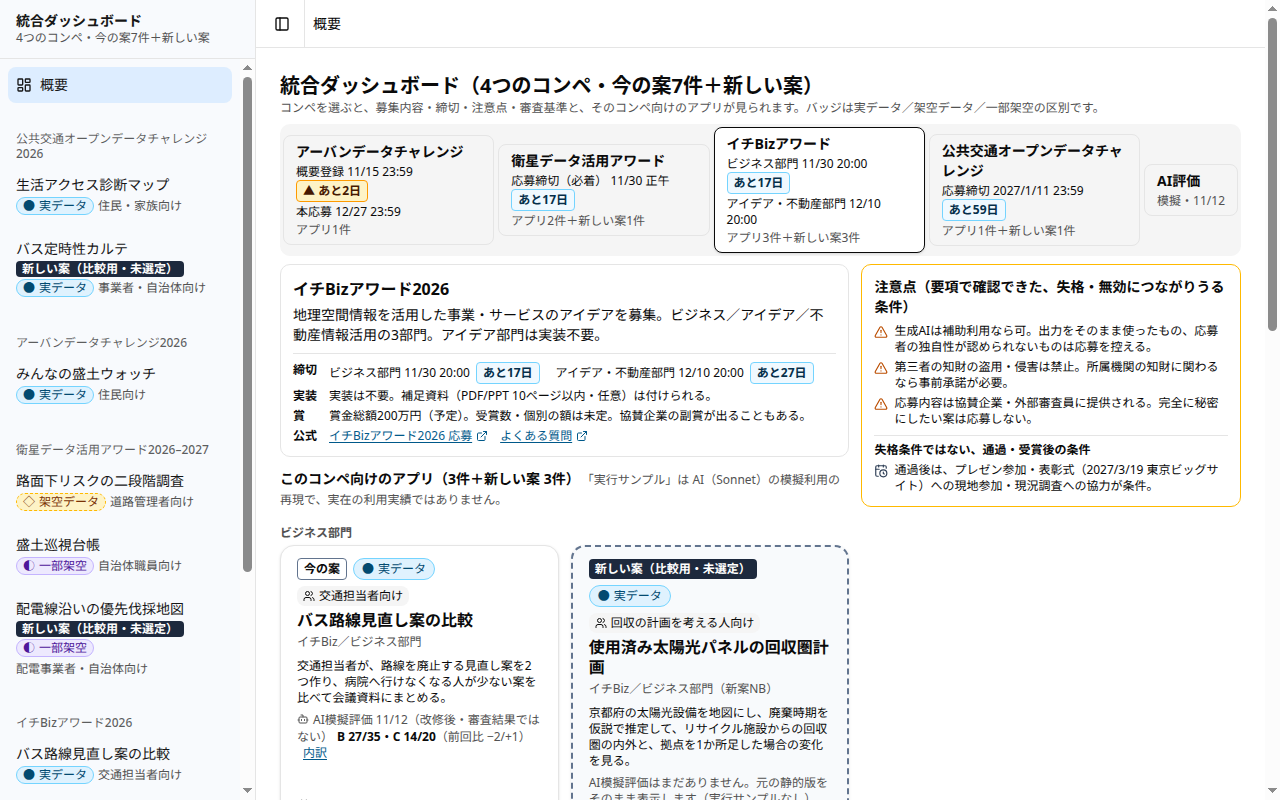
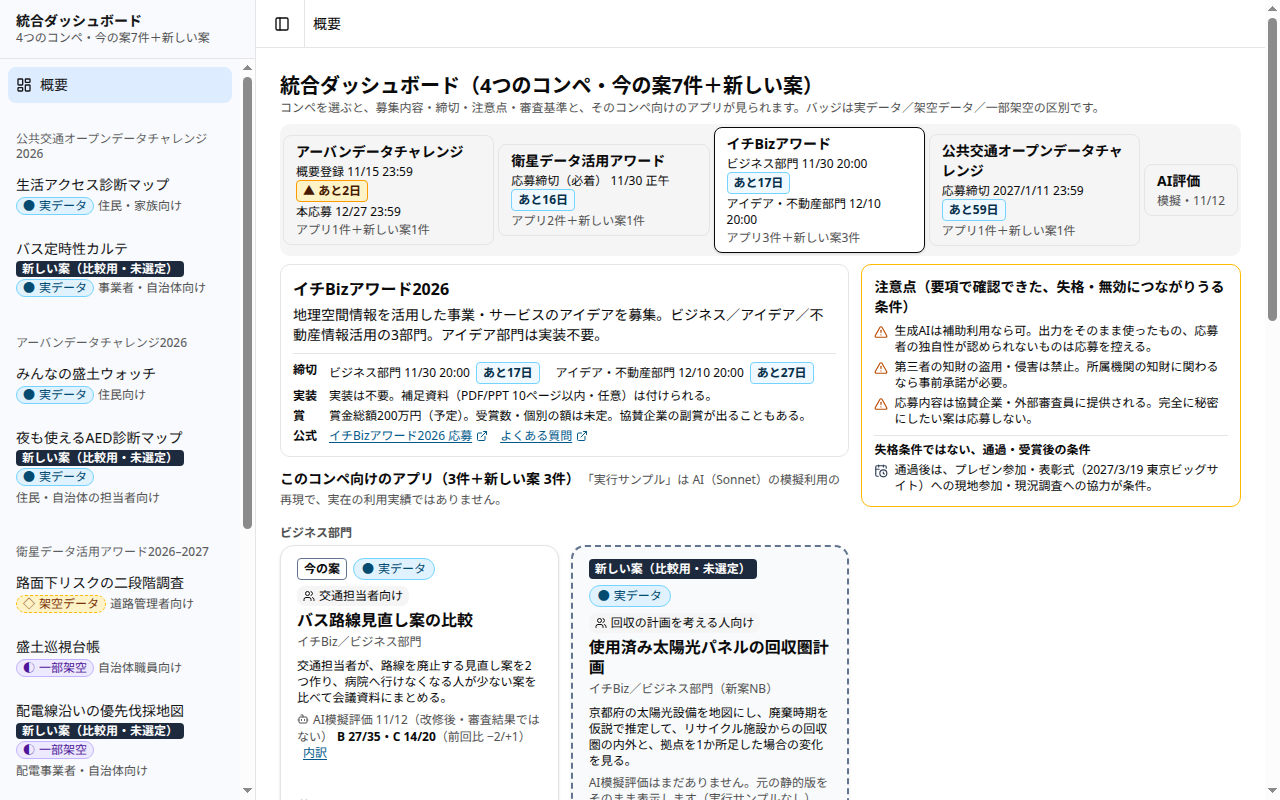
工兵: 統合ダッシュボードにUDC新案AED（udc-aed）を盛土ウォッチの隣に追加、IN1カードからデモを開けるように（IN1の数字を11台・2か所に）

diff --git a/contests/dashboard/src/apps/registry.ts b/contests/dashboard/src/apps/registry.ts
@@ -51,6 +51,8 @@ export interface CardOnly {
   pairWith: string
   /** カードの本文（何の案か・何がまだ無いか） */
   note: string
+  /** デモを開けるアプリの id（あれば「デモを開く」を出す） */
+  demoAppId?: string
   /** 提出文を読むリンク（サイトルートからの相対パス。copy-data が submission/ の md を .txt にして置く） */
   docs: { label: string; path: string }[]
 }
@@ -217,6 +219,23 @@ export const APPS: AppMeta[] = [
     originalPath: 'contests/ichibiz-2026/app/realestate-rn1/',
   },
   {
+    id: 'udc-aed',
+    plan: 'new',
+    pairWith: 'udc-moritsuchi',
+    embed: 'udc-aed',
+    audience: '住民・自治体の担当者向け',
+    name: '夜も使えるAED診断マップ',
+    contest: 'udc-2026',
+    division: '新案A',
+    deadline: '2026/12/27 23:59（概要登録は 11/15 23:59）',
+    deadlineAt: '2026-12-27T23:59:00+09:00',
+    purpose:
+      '自治体が公開したAEDの利用可能な曜日・時間から、選んだ曜日と時刻に徒歩圏で使えるAEDがない地区を地図で見て、24時間使えるAEDを1台置いた場合の変化を試算する。',
+    dataKind: 'real',
+    dataNote: '町田市・福岡市・井原市・倉敷市が公開したAED設置のオープンデータと、国勢調査の地域メッシュ人口。時間表記を読めないAEDは「不明」として数える',
+    originalPath: 'contests/udc-2026/app/aed-night/',
+  },
+  {
     id: 'odpt-teiji',
     plan: 'new',
     pairWith: 'odpt',
@@ -244,7 +263,8 @@ export const CARDS_ONLY: CardOnly[] = [
     contest: 'ichibiz-2026',
     division: 'アイデア部門（新案IN1）',
     pairWith: 'biz-idea',
-    note: 'AEDの地図は公開されていても、点は「いつ使えるか」を示さない。町田市の公開データでは、位置と利用時間が記入された288台のうち、平日午前3時に使えるのは14台（本案の簡易判定）。提出文のみで、デモは UDC の「夜間・休日に使えるAED地図」を使う予定（準備中）。',
+    note: 'AEDの地図は公開されていても、点は「いつ使えるか」を示さない。町田市の公開データでは、位置と利用時間が記入された288台のうち、平日午前3時に使えるのは11台（2か所。救急車内等4台を除く本案の判定）。提出文のみ。デモは UDC の「夜も使えるAED診断マップ」を使う予定で、下のリンクから開けます。',
+    demoAppId: 'udc-aed',
     docs: [
       { label: '課題の文を読む', path: 'submission/idea-in1/problem.txt' },
       { label: 'サービス内容の文を読む', path: 'submission/idea-in1/service.txt' },

diff --git a/contests/dashboard/src/pages/Overview.tsx b/contests/dashboard/src/pages/Overview.tsx
@@ -7,7 +7,7 @@ import { Card, CardContent, CardDescription, CardFooter, CardHeader, CardTitle }
 import { Tabs, TabsContent, TabsList, TabsTrigger } from '@/components/ui/tabs'
 import { DataBadge } from '@/components/shared/DataBadge'
 import { APPS, CARDS_ONLY, CONTESTS, NEW_PLAN_LABEL, appsByContest, getApp, isNewPlan, type AppMeta, type CardOnly, type ContestId } from '@/apps/registry'
-import { siteRoot } from '@/lib/data'
+import { appUrl, siteRoot } from '@/lib/data'
 import { CONTEST_INFO, remainingText, type ContestInfo } from '@/apps/contests-info'
 import { AppScoreLine, EvalSummary, MOCK_NOTICE, ROUND_NOTICE } from '@/pages/EvalPanels'
 import { LATEST } from '@/apps/eval-results'
@@ -51,7 +51,7 @@ function CardOnlyCard({ c }: { c: CardOnly }) {
       <CardHeader className="gap-1 px-4">
         <div className="flex flex-wrap items-center gap-1.5">
           <NewPlanTag />
-          <span className="rounded border border-slate-500 px-1.5 py-0.5 text-xs font-bold">デモなし</span>
+          <span className="rounded border border-slate-500 px-1.5 py-0.5 text-xs font-bold">{c.demoAppId ? '提出文のみ' : 'デモなし'}</span>
         </div>
         <CardTitle className="text-base leading-tight" data-testid={`card-only-title-${c.id}`}>{c.name}</CardTitle>
         <CardDescription className="text-xs">
@@ -62,6 +62,16 @@ function CardOnlyCard({ c }: { c: CardOnly }) {
         <p data-testid={`card-only-note-${c.id}`}>{c.note}</p>
       </CardContent>
       <CardFooter className="flex-wrap gap-x-4 gap-y-1 px-4 text-xs">
+        {c.demoAppId && (
+          <a
+            href={appUrl(c.demoAppId)}
+            className="inline-flex items-center gap-1 font-bold text-primary underline underline-offset-2"
+            data-testid={`card-only-demo-${c.id}`}
+          >
+            デモを開く（UDC「{getApp(c.demoAppId)?.name}」）
+            <ArrowRight className="size-3" aria-hidden />
+          </a>
+        )}
         {c.docs.map((d) => (
           <a
             key={d.path}

diff --git a/contests/dashboard/src/test/shared.test.ts b/contests/dashboard/src/test/shared.test.ts
@@ -56,9 +56,9 @@ describe('mapStyle / registry', () => {
     }
     expect(GSI_BASEMAPS.photo.url).toContain('seamlessphoto')
   })
-  it('今の案7件と新しい案4件が登録され id が一意', () => {
+  it('今の案7件と新しい案5件が登録され id が一意', () => {
     expect(CURRENT_APPS).toHaveLength(7)
-    expect(APPS.filter(isNewPlan)).toHaveLength(4)
+    expect(APPS.filter(isNewPlan)).toHaveLength(5)
     expect(new Set(APPS.map((a) => a.id)).size).toBe(APPS.length)
     expect(getApp('sat-a')?.dataKind).toBe('fictional')
     expect(appsByContest('ichibiz-2026').filter((a) => !isNewPlan(a))).toHaveLength(3)
@@ -79,6 +79,7 @@ describe('mapStyle / registry', () => {
   it('今の案から新しい案を引ける（見比べるリンク用）。ODPT 定時性カルテの状態の文に数値を書かない', () => {
     expect(newPlansOf('sat-b').map((a) => a.id)).toEqual(['sat-alpha'])
     expect(newPlansOf('sat-a')).toEqual([])
+    expect(newPlansOf('udc-moritsuchi').map((a) => a.id)).toEqual(['udc-aed'])
     expect(getApp('odpt-teiji')?.stateNote).toMatch(/まだ遅れの集計はありません/)
     expect(getApp('odpt-teiji')?.stateNote).not.toMatch(/\d+\s*(便|件|%|％)/)
   })

diff --git a/contests/dashboard/apps/udc-aed/index.html b/contests/dashboard/apps/udc-aed/index.html
@@ -1,0 +1,13 @@
+<!doctype html>
+<html lang="ja">
+  <head>
+    <meta charset="UTF-8" />
+    <meta name="viewport" content="width=device-width, initial-scale=1.0" />
+    <link rel="icon" href="data:," />
+    <title>夜も使えるAED診断マップ（新しい案・比較用）｜統合ダッシュボード</title>
+  </head>
+  <body>
+    <div id="root" data-app="udc-aed" data-root="../../"></div>
+    <script type="module" src="/src/standalone/udc-aed.tsx"></script>
+  </body>
+</html>

diff --git a/contests/dashboard/vite.config.ts b/contests/dashboard/vite.config.ts
@@ -6,7 +6,7 @@ import { defineConfig } from 'vitest/config'
 const APP_IDS = [
   'odpt', 'udc-moritsuchi', 'sat-a', 'sat-b', 'biz-business', 'biz-idea', 'biz-realestate',
   // 新しい案（比較用・未選定。元の静的版を埋め込む）
-  'sat-alpha', 'biz-business-nb', 'biz-realestate-rn1', 'odpt-teiji',
+  'sat-alpha', 'biz-business-nb', 'biz-realestate-rn1', 'odpt-teiji', 'udc-aed',
 ]
 const root = import.meta.dirname
 

diff --git a/contests/dashboard/src/apps/udc-aed/index.tsx b/contests/dashboard/src/apps/udc-aed/index.tsx
@@ -1,0 +1,6 @@
+import { EmbeddedApp } from '@/apps/embedded/EmbeddedApp'
+
+/** 新しい案（比較用・未選定）。元の静的版を埋め込む。仕組みは README「新しい案の足し方」 */
+export default function App() {
+  return <EmbeddedApp appId="udc-aed" />
+}

diff --git a/contests/dashboard/src/standalone/udc-aed.tsx b/contests/dashboard/src/standalone/udc-aed.tsx
@@ -1,0 +1,4 @@
+import App from '@/apps/udc-aed/index'
+import { mountStandalone } from './mount'
+
+mountStandalone('udc-aed', App)
